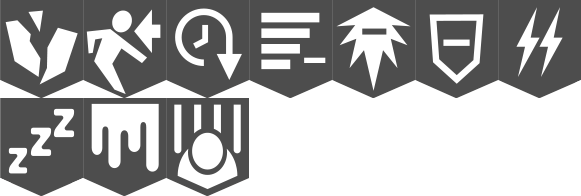
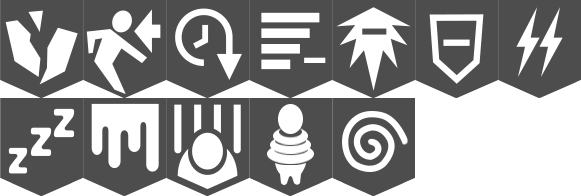
Buffs page complete

Changed region(s): [[0.4028, 0.4898, 0.7126, 1.0]]

diff --git a/index.html b/index.html
@@ -466,54 +466,162 @@
                     <p>Abnormal status effects that can apply to players and enemies. Hover to see details.</p>
                     
                     
-                    <!-- Pair Buffs -->
-                    <div class="buffHolder" style="margin-top: 2.3vw;">
-
+                    
+                    <div class="buffHolder" style="margin-top: 1vw;">
+                        
+                        <!-- Pair Buffs -->
                         <div class="buffTutorial"></div>
+                        <p class="tooltip" style="border-color: #e3e3e3;">Shield Up<br>Shield gauge is not consumed when blocking<br><img class="class-tool-af" src="images/aficon.svg"></p>
+                        
+                        <div class="buffTutorial" style="background-position: -2.1615vw -0"></div>
+                        <p class="tooltip" style="border-color: #e3e3e3;">Speed Up<br>Increases movement speed<br><img class="class-tool-ba" src="images/baicon.svg"> Feste</p>
+                        
                         <div class="buffTutorial" style="background-position: -4.323vw -0"></div>
+                        <p class="tooltip" style="border-color: #e3e3e3;">Quick Interval<br>Reduces skill cooldown<br><img class="class-tool-ba" src="images/baicon.svg"> Feste</p>
+                        
+                        <div class="buffTutorial" style="background-position: -6.4845vw -0"></div>
+                        <p class="tooltip" style="border-color: #e3e3e3;">Quick Charge<br>Reduces skill charge time<br><img class="class-tool-sc" src="images/scicon.svg"></p>
+                        
                         <div class="buffTutorial" style="background-position: -8.646vw -0"></div>
+                        <p class="tooltip" style="border-color: #e3e3e3;">ATK Up<br>Increases ATK<br><img class="class-tool-ts" src="images/tsicon.svg"> Feste</p>
+                        
+                        <div class="buffTutorial" style="background-position: -10.8075vw -0"></div>
+                        <p class="tooltip" style="border-color: #e3e3e3;">DEF Up<br>Increases DEF<br><img class="class-tool-af" src="images/aficon.svg"></p>
+                        
                         <div class="buffTutorial" style="background-position: -12.969vw -0"></div>
-                        <div class="buffTutorial" style="background-position: -17.292vw -0"></div>
-                        <div class="buffTutorial" style="background-position: -21.615vw -0"></div>
-                        <div class="buffTutorial" style="background-position: -25.938vw -0"></div>
-
-
-                    </div>
-                    <!-- Pair Debuffs -->
-                    <div class="buffHolder">
-
-                        <div class="debuffTutorial"></div>
-                        <div class="debuffTutorial" style="background-position: -4.323vw -0"></div>
-                        <div class="debuffTutorial" style="background-position: -8.646vw -0"></div>
-                        <div class="debuffTutorial" style="background-position: -12.969vw -0"></div>
-                        <div class="debuffTutorial" style="background-position: -17.292vw -0"></div>
-                        <div class="debuffTutorial" style="background-position: -21.615vw -0"></div>
-                        <div class="debuffTutorial" style="background-position: -25.938vw -0"></div>
-
-                    </div>
-
-
-                    <!-- Unique Buffs -->
-                    <div class="buffHolder" style="margin-top: 2.3vw;">
-
-                        <div class="buffTutorial" style="background-position: -0px -5.104vw"></div>
-                        <div class="buffTutorial" style="background-position: -4.323vw -5.104vw"></div>
-                        <div class="buffTutorial" style="background-position: -8.646vw -5.104vw"></div>
-                        <div class="buffTutorial" style="background-position: -12.969vw -5.104vw"></div>
-                        <div class="buffTutorial" style="background-position: -17.292vw -5.104vw"></div>
-
-                    </div>
-                    <!-- Unique Debuffs -->
-                    <div class="buffHolder">
-
-                        <div class="debuffTutorial" style="background-position: -0px -5.104vw"></div>
-                        <div class="debuffTutorial" style="background-position: -4.323vw -5.104vw"></div>
-                        <div class="debuffTutorial" style="background-position: -8.646vw -5.104vw"></div>
-                        <div class="debuffTutorial" style="background-position: -12.969vw -5.104vw"></div>
-                        <div class="debuffTutorial" style="background-position: -17.292vw -5.104vw"></div>
-
+                        <p class="tooltip" style="border-color: #e3e3e3;">no data</p>
+                        
+                        <!-- Unique Buffs -->
+                        <div class="buffTutorial" style="background-position: -0px -2.552vw"></div>
+                        <p class="tooltip" style="border-color: #e3e3e3">no data<br></p>
+                        
+                        <div class="buffTutorial" style="background-position: -2.1615vw -2.552vw"></div>
+                        <p class="tooltip" style="border-color: #e3e3e3">Drain<br>Restores a portion of damage dealt as HP<br><img class="class-tool-ts" src="images/tsicon.svg"></p>
+                        
+                        <div class="buffTutorial" style="background-position: -4.323vw -2.552vw"></div>
+                        <p class="tooltip" style="border-color: #e3e3e3">HP Regen<br>Recovers HP over time<br><img class="class-tool-af" src="images/aficon.svg"><img class="class-tool-ba" src="images/baicon.svg"></p>
+                        
+                        <div class="buffTutorial" style="background-position: -6.4845vw -2.552vw"></div>
+                        <p class="tooltip" style="border-color: #e3e3e3">EP Regen<br>Recovers EP over time<br><img class="class-tool-sc" src="images/scicon.svg"></p>
+                        
+                        <div class="buffTutorial" style="background-position: -8.646vw -2.552vw"></div>
+                        <p class="tooltip" style="border-color: #e3e3e3">SP Armor<br>Immune to flinching when hit (skills won't be disrupted)<br><img class="class-tool-ts" src="images/tsicon.svg"><img class="class-tool-hs" src="images/hsicon.svg"> Feste</p>
+                        
+                        <div class="buffTutorial" style="background-position: -10.8075vw -2.552vw"></div>
+                        <p class="tooltip" style="border-color: #e3e3e3">Rock Body<br>no data<br><img class="class-tool-hs" src="images/hsicon.svg"></p>
+                        
+                        <div class="buffTutorial" style="background-position: -12.969vw -2.552vw"></div>
+                        <p class="tooltip" style="border-color: #e3e3e3">Bad Status Immune<br>Temporary immunity to debuffs<br><img class="class-tool-ba" src="images/baicon.svg"></p>
+                        
+                        <div class="buffTutorial" style="background-position: -0vw -10.208vw"></div>
+                        <p class="tooltip" style="border-color: #e3e3e3">Judgement Mode<br>no data<br><img class="class-tool-af" src="images/aficon.svg"></p>
+                        
+                        <div class="buffTutorial" style="background-position: -2.1615vw -10.208vw"></div>
+                        <p class="tooltip" style="border-color: #e3e3e3">Critical Ready<br>Ensures a critical hit for the next attack<br><img class="class-tool-ts" src="images/tsicon.svg"></p>
+                        
+                        <div class="buffTutorial" style="background-position: -4.323vw -10.208vw"></div>
+                        <p class="tooltip" style="border-color: #e3e3e3">Engram Up<br>no data<br><img class="class-tool-sc" src="images/scicon.svg"></p>
+   
                     </div>
                     
+                    
+                    <div class="buffHolder">
+                        <!-- Pair Debuffs -->
+                        <div class="debuffTutorial"></div>
+                        <p class="tooltip" style="border-color: #4d4d4d">Guard Break<br>Shield-related actions disabled<br></p>
+                        
+                        <div class="debuffTutorial" style="background-position: -2.1615vw -0"></div>
+                        <p class="tooltip" style="border-color: #4d4d4d">Speed Down<br>Reduces movement speed<br><img class="class-tool-ba" src="images/baicon.svg"><img class="class-tool-sc" src="images/scicon.svg"></p>
+                        
+                        <div class="debuffTutorial" style="background-position: -4.323vw -0"></div>
+                        <p class="tooltip" style="border-color: #4d4d4d">Slow Interval<br>Increases skill cooldown<br><img class="class-tool-ba" src="images/baicon.svg"><img class="class-tool-sc" src="images/scicon.svg"></p>
+                        
+                        <div class="debuffTutorial" style="background-position: -6.4845vw -0"></div>
+                        <p class="tooltip" style="border-color: #4d4d4d">Slow Charge<br>Increases skill charge time<br></p>
+                        <div class="debuffTutorial" style="background-position: -8.646vw -0"></div>
+                        
+                        <p class="tooltip" style="border-color: #4d4d4d">ATK Down<br>Decreases ATK<br></p>
+                        <div class="debuffTutorial" style="background-position: -10.8075vw -0"></div>
+                        
+                        <p class="tooltip" style="border-color: #4d4d4d">DEF Down<br>Decreases DEF<br></p>
+                        <div class="debuffTutorial" style="background-position: -12.969vw -0"></div>
+                        
+                        <p class="tooltip" style="border-color: #4d4d4d">no data</p>
+                        
+                        <!-- Unique Debuffs -->
+                        <div class="debuffTutorial" style="background-position: -0px -2.552vw"></div>
+                        <p class="tooltip" style="border-color: #4d4d4d">Sleep<br>Puts target to sleep<br><img class="class-tool-ba" src="images/baicon.svg"></p>
+                        
+                        <div class="debuffTutorial" style="background-position: -2.1615vw -2.552vw"></div>
+                        <p class="tooltip" style="border-color: #4d4d4d">Poison<br>Drains target's HP over time<br><img class="class-tool-ba" src="images/baicon.svg"></p>
+                        
+                        <div class="debuffTutorial" style="background-position: -4.323vw -2.552vw"></div>
+                        <p class="tooltip" style="border-color: #4d4d4d">Respawn Sickness<br>Reduces movement speed...<br></p>
+                        
+                        <div class="debuffTutorial" style="background-position: -6.4845vw -2.552vw"></div>
+                        <p class="tooltip" style="border-color: #4d4d4d">Bind<br>Immobilizes target without disabling their attacks<br><img class="class-tool-af" src="images/aficon.svg"></p>
+                        
+                        <div class="debuffTutorial" style="background-position: -8.646vw -2.552vw"></div>
+                        <p class="tooltip" style="border-color: #4d4d4d">Stun<br>Stuns target for a short period<br>Feste</p>
+                        
+                        <div class="debuffTutorial" style="background-position: -10.8075vw -2.552vw"></div>
+                        <div class="debuffTutorial" style="background-position: -10.8075vw -2.552vw"></div>
+                        <div class="debuffTutorial" style="background-position: -10.8075vw -2.552vw"></div>
+                        <div class="debuffTutorial" style="background-position: -10.8075vw -2.552vw"></div>
+                        <div class="debuffTutorial" style="background-position: -10.8075vw -2.552vw"></div>
+                        
+
+                    </div>
+
+                    <div class="buffHolder" style="margin-top: 1vw;">
+                        <div class="buffTutorial" style="background-position: -0px -5.104vw"></div>
+                        <p class="tooltip" style="border-color: #e3e3e3">Fire ATK Up<br>Increases Fire damage<br><img class="class-tool-ts" src="images/tsicon.svg"></p>
+                        
+                        <div class="buffTutorial" style="background-position: -2.1615vw -5.104vw"></div>
+                        <p class="tooltip" style="border-color: #e3e3e3">Ice ATK Up<br>Increases Ice damage<br></p>
+                        
+                        <div class="buffTutorial" style="background-position: -4.323vw -5.104vw"></div>
+                        <p class="tooltip" style="border-color: #e3e3e3">Lightning ATK Up<br>Increases Lightning damage<br>
+                        </p>
+                        
+                        <div class="buffTutorial" style="background-position: -6.4845vw -5.104vw"></div>
+                        <p class="tooltip" style="border-color: #e3e3e3">Earth ATK Up<br>Increases Earth damage<br></p>
+                        
+                        <div class="buffTutorial" style="background-position: -8.646vw -5.104vw"></div>
+                        <p class="tooltip" style="border-color: #e3e3e3">Light ATK Up<br>Increases Light damage<br></p>
+                        
+                        <div class="buffTutorial" style="background-position: -10.8075vw -5.104vw"></div>
+                        <p class="tooltip" style="border-color: #e3e3e3">Dark ATK Up<br>Increases Dark damage<br></p>
+                        
+                        <div class="buffTutorial" style="background-position: -0px -7.656vw"></div>
+                        <p class="tooltip" style="border-color: #e3e3e3">Fire DEF Up<br>Increases defense against Fire damage<br><img class="class-tool-af" src="images/aficon.svg"></p>
+                        
+                        <div class="buffTutorial" style="background-position: -2.1615vw -7.656vw"></div>
+                        <p class="tooltip" style="border-color: #e3e3e3">Ice DEF Up<br>Increases defense against Ice damage<br><img class="class-tool-af" src="images/aficon.svg"></p>
+                        
+                        <div class="buffTutorial" style="background-position: -4.323vw -7.656vw"></div>
+                        <p class="tooltip" style="border-color: #e3e3e3">Lightning DEF Up<br>Increases defense against Lightning damage<br><img class="class-tool-af" src="images/aficon.svg"></p>
+                        
+                        <div class="buffTutorial" style="background-position: -6.4845vw -7.656vw"></div>
+                        <p class="tooltip" style="border-color: #e3e3e3">Earth DEF Up<br>Increases defense against Earth damage<br><img class="class-tool-af" src="images/aficon.svg"></p>
+                        
+                        <div class="buffTutorial" style="background-position: -8.646vw -7.656vw"></div>
+                        <p class="tooltip" style="border-color: #e3e3e3">Light DEF Up<br>Increases defense against Light damage<br><img class="class-tool-af" src="images/aficon.svg"></p>
+                        
+                        <div class="buffTutorial" style="background-position: -10.8075vw -7.656vw"></div>
+                        <p class="tooltip" style="border-color: #e3e3e3">Dark DEF Up<br>Increases defense against Dark damage<br><img class="class-tool-af" src="images/aficon.svg"></p>
+                        
+                        
+                    </div>
+                    
+                    <div style="margin: 1vw;">
+                        <p>*Buffs: class icons do not specify if the buff can be applied to allies or self only</p>
+                        
+                        <p style="margin-top: .52vw;">**Debuffs: class icons only listed if a class can apply the debuff to enemies</p>
+                        <p style="font-size: 0.74vw;">i.e. Heavy Smashers can apply Speed Down on themselves but not to enemies, so its class icon is excluded.</p>
+                        
+                        <p style="margin-top: .52vw;">***An npc name means that this co-op npc can apply these effects to targets</p>
+                    </div>
                     
                     
                 </div>

diff --git a/index.css b/index.css
@@ -627,13 +627,13 @@ h2 {
 }
 
 /* tooltip */
-.tooltip {
+.tooltip, .buffTool {
     display: none;
     position: fixed;
     font-size: 0.833vw; /* 16px */
     z-index: 90;
 }
-p.tooltip, .recipeTooltip, .wrecipeTooltip, .skillTooltip, .slotTooltip {
+p.tooltip, .recipeTooltip, .wrecipeTooltip, .skillTooltip, .slotTooltip, .buffTool {
     z-index: 90;
     font-size: 0.833vw;
     padding: 0.26vw 0.52vw 0.26vw 0.32vw;
@@ -1675,29 +1675,49 @@ input:checked + .slider:before {
 }
 
 
+
+
 .buffTutorial, .debuffTutorial, .elementTutorial {
-    width: 4.323vw;
-    height: 5.104vw;
+    width: 2.1615vw;
+    height: 2.552vw;
     position: relative;
-    filter: drop-shadow(5px 5px 0 #646260);
+    filter: drop-shadow(3px 3px 0 #646260);
     display: inline-block;
-    margin: .52vw .52vw; 
+    margin: .26vw .26vw; 
     
 }
 
 .buffTutorial {
     background: url(images/buffs/buffs.png);
-    background-size: 30.260vw 10.208vw;
+    background-size: 15.13vw 15.3125vw;
 }
 .debuffTutorial {
     background: url(images/buffs/debuffs.png);
-    background-size: 30.260vw 10.208vw;
+    background-size: 15.13vw 5.104vw;
 }
 .elementTutorial {
     background: url(images/buffs/elements.png);
 }
 .buffTutorial:hover, .debuffTutorial:hover, .elementTutorial:hover {
-    filter: brightness(0.8) drop-shadow(5px 5px 0 #585655);
+    filter: brightness(0.8) drop-shadow(3px 3px 0 #585655);
+}
+.buffTutorial:hover+.tooltip, .debuffTutorial:hover+.tooltip {
+    display: block;
+}
+.buffTutorial+.tooltip, .debuffTutorial+.tooltip {
+    text-align: left;
+}
+.class-tool-af, .class-tool-ts, .class-tool-ba, .class-tool-sc, .class-tool-hs {
+    width: 1vw;
+    margin: 0.1vw 0.1vw -0.2vw 0.1vw;
+}
+.class-tool-ts {
+    width: 1.05vw;
+    margin-bottom: -0.15vw;
+}
+.class-tool-ba {
+    width: 1.3vw; 
+    margin: 0.1vw 0.05vw -0.15vw 0.05vw
 }
 
 /* ------------- BUBBLES -------------- */
